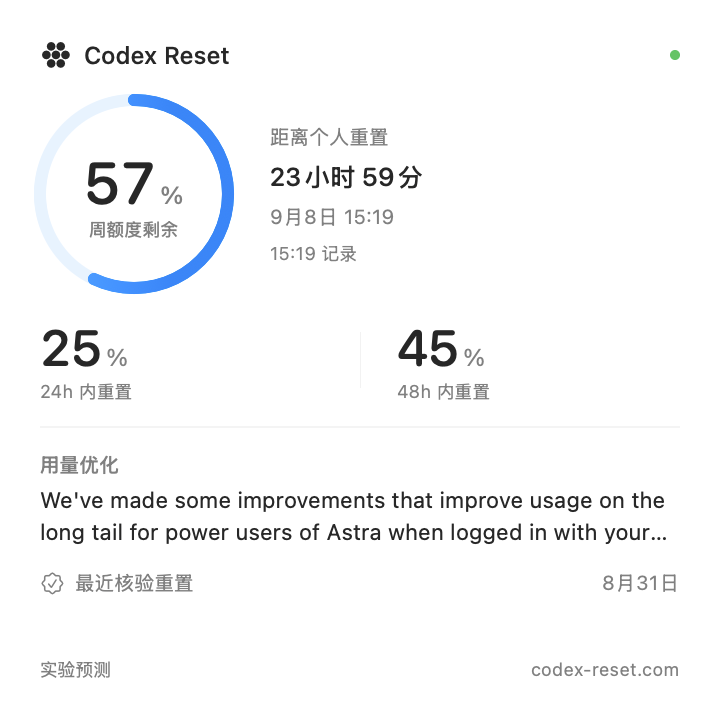
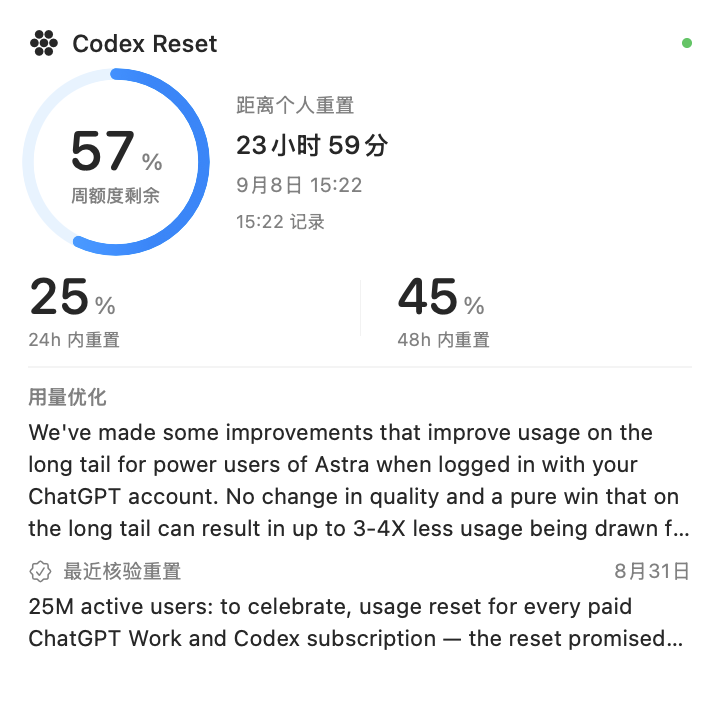
Remove widget footer and tighten spacing

Changed region(s): [[0.0306, 0.0306, 0.9472, 0.9472], [0.9472, 0.0306, 0.9778, 0.0611], [0.9167, 0.0611, 0.9472, 0.0917]]

diff --git a/Widget/CodexResetWidget.swift b/Widget/CodexResetWidget.swift
@@ -39,7 +39,7 @@ struct ResetWidgetView: View {
     private var percent: Double? { entry.personal.isConfigured ? entry.personal.remainingPercent : nil }
 
     var body: some View {
-        VStack(alignment: .leading, spacing: 12) {
+        VStack(alignment: .leading, spacing: 8) {
             HStack(spacing: 6) {
                 Image(systemName: "circle.hexagongrid.fill").font(.system(size: 13, weight: .medium))
                 Text("Codex Reset").font(.system(size: 12, weight: .medium))
@@ -47,7 +47,7 @@ struct ResetWidgetView: View {
                 Circle().fill(entry.snapshot.isStale(at: entry.date) ? Color.orange : Color.green).frame(width: 5, height: 5)
             }
             if extraLarge {
-                HStack(alignment: .top, spacing: 24) {
+                HStack(alignment: .top, spacing: 16) {
                     expandedMetrics.frame(width: 250)
                     Rectangle().fill(.primary.opacity(0.07)).frame(width: 0.5)
                     expandedNews.frame(maxWidth: .infinity, alignment: .leading)
@@ -55,14 +55,9 @@ struct ResetWidgetView: View {
             } else {
                 compactContent
             }
-            Spacer(minLength: 0)
-            HStack(spacing: 4) {
-                Text("实验预测")
-                if entry.snapshot.isStale(at: entry.date) { Text("· 缓存待更新") }
-                Spacer()
-                Text("codex-reset.com")
-            }.font(.system(size: 9)).foregroundStyle(.secondary)
         }
+        .frame(maxWidth: .infinity, maxHeight: .infinity, alignment: .topLeading)
+        .padding(14)
         .containerBackground(for: .widget) {
             Rectangle().fill(.background)
                 .overlay {
@@ -73,37 +68,40 @@ struct ResetWidgetView: View {
     }
 
     private var compactContent: some View {
-        VStack(alignment: .leading, spacing: 12) {
-            HStack(spacing: 21) {
-                QuotaRing(percent: percent, size: 94)
+        VStack(alignment: .leading, spacing: 8) {
+            HStack(spacing: 16) {
+                QuotaRing(percent: percent, size: 88)
                 resetCountdown
-            }.padding(.vertical, 3)
+            }
             probabilities
             Divider().opacity(0.45)
             if let post = posts.first {
                 VStack(alignment: .leading, spacing: 4) {
                     Text(ResetPresentation.category(post.kind)).font(.system(size: 10, weight: .semibold)).foregroundStyle(.secondary)
-                    Text(post.text).font(.system(size: 11, weight: .regular)).lineSpacing(2).lineLimit(2)
+                    Text(post.text.split(whereSeparator: \.isWhitespace).joined(separator: " ")).font(.system(size: 11, weight: .regular)).lineSpacing(2).lineLimit(4)
                 }
             }
             if let event = events.first, let date = event.announced_at {
-                HStack(spacing: 5) {
-                    Image(systemName: "checkmark.seal").font(.system(size: 10))
-                    Text("最近核验重置")
-                    Spacer()
-                    Text(date, format: .dateTime.month().day())
-                }.font(.system(size: 10)).foregroundStyle(.secondary)
+                VStack(alignment: .leading, spacing: 4) {
+                    HStack(spacing: 5) {
+                        Image(systemName: "checkmark.seal").font(.system(size: 10))
+                        Text("最近核验重置")
+                        Spacer()
+                        Text(date, format: .dateTime.month().day())
+                    }.font(.system(size: 10)).foregroundStyle(.secondary)
+                    Text(event.summary).font(.system(size: 11)).lineSpacing(2).lineLimit(2)
+                }
             }
         }
     }
 
     private var expandedMetrics: some View {
-        VStack(alignment: .leading, spacing: 20) {
-            HStack(spacing: 18) {
+        VStack(alignment: .leading, spacing: 12) {
+            HStack(spacing: 12) {
                 QuotaRing(percent: percent, size: 108)
                 resetCountdown
-            }.padding(.top, 8)
-            probabilities.padding(.vertical, 8)
+            }
+            probabilities.padding(.vertical, 4)
             if let date = entry.snapshot.forecast?.last_reset_at {
                 VStack(alignment: .leading, spacing: 5) {
                     SectionCaption(title: "最近一次全局重置")
@@ -150,7 +148,7 @@ struct ResetWidgetView: View {
     }
 
     private var expandedNews: some View {
-        VStack(alignment: .leading, spacing: 12) {
+        VStack(alignment: .leading, spacing: 8) {
             SectionCaption(title: "最新动态")
             ForEach(posts) { post in
                 VStack(alignment: .leading, spacing: 4) {
@@ -159,7 +157,7 @@ struct ResetWidgetView: View {
                         Spacer()
                         Text(post.at, format: .dateTime.month().day())
                     }.font(.system(size: 10)).foregroundStyle(.secondary)
-                    Text(post.text).font(.system(size: 12, weight: .regular)).lineSpacing(2).lineLimit(2)
+                    Text(post.text.split(whereSeparator: \.isWhitespace).joined(separator: " ")).font(.system(size: 12, weight: .regular)).lineSpacing(2).lineLimit(3)
                 }
             }
             Divider().opacity(0.45)
@@ -170,7 +168,7 @@ struct ResetWidgetView: View {
                         Text(date, format: .dateTime.month().day()).font(.system(size: 10, weight: .medium))
                             .foregroundStyle(.secondary).frame(width: 45, alignment: .leading)
                     }
-                    Text(event.summary).font(.system(size: 11, weight: .regular)).lineSpacing(2).lineLimit(2)
+                    Text(event.summary).font(.system(size: 11, weight: .regular)).lineSpacing(2).lineLimit(3)
                 }
             }
         }
@@ -187,5 +185,6 @@ struct CodexResetWidget: Widget {
         .configurationDisplayName("Codex Reset")
         .description("查看重置概率、最新公告、历史记录与个人用量。")
         .supportedFamilies([.systemLarge, .systemExtraLarge])
+        .contentMarginsDisabled()
     }
 }
